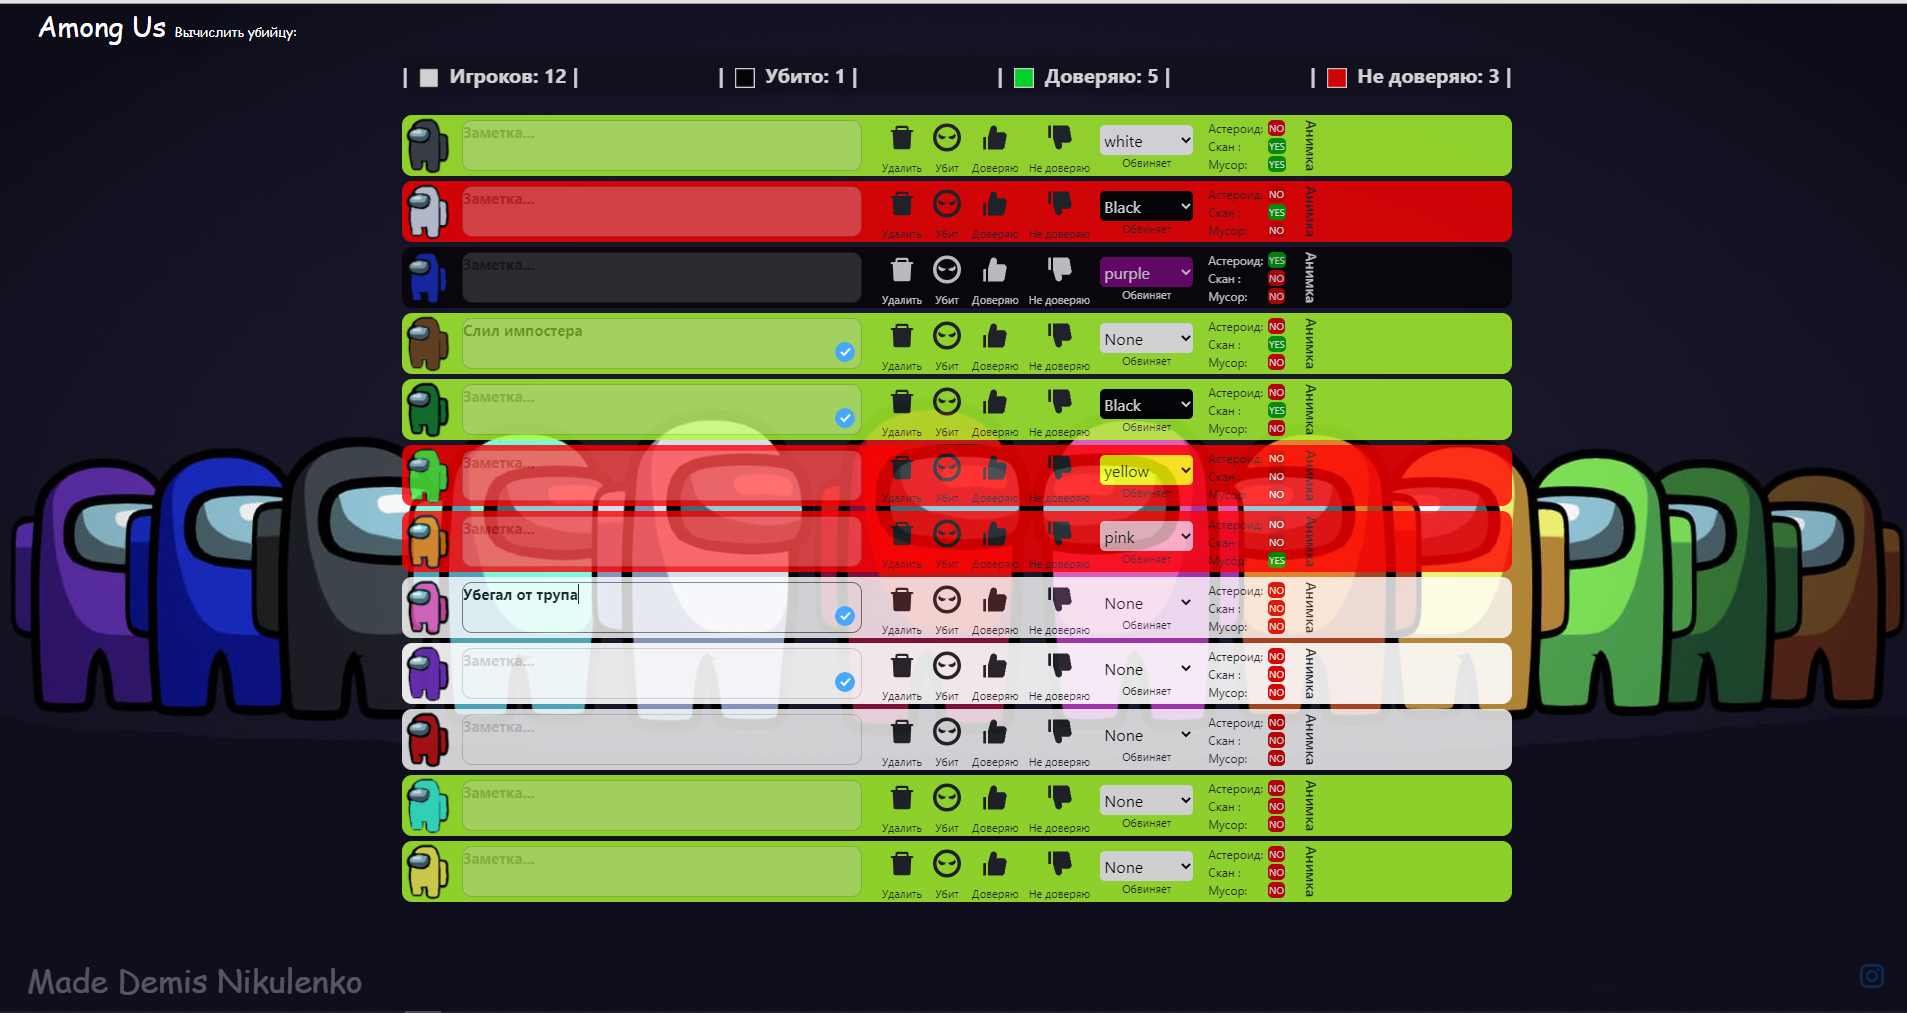
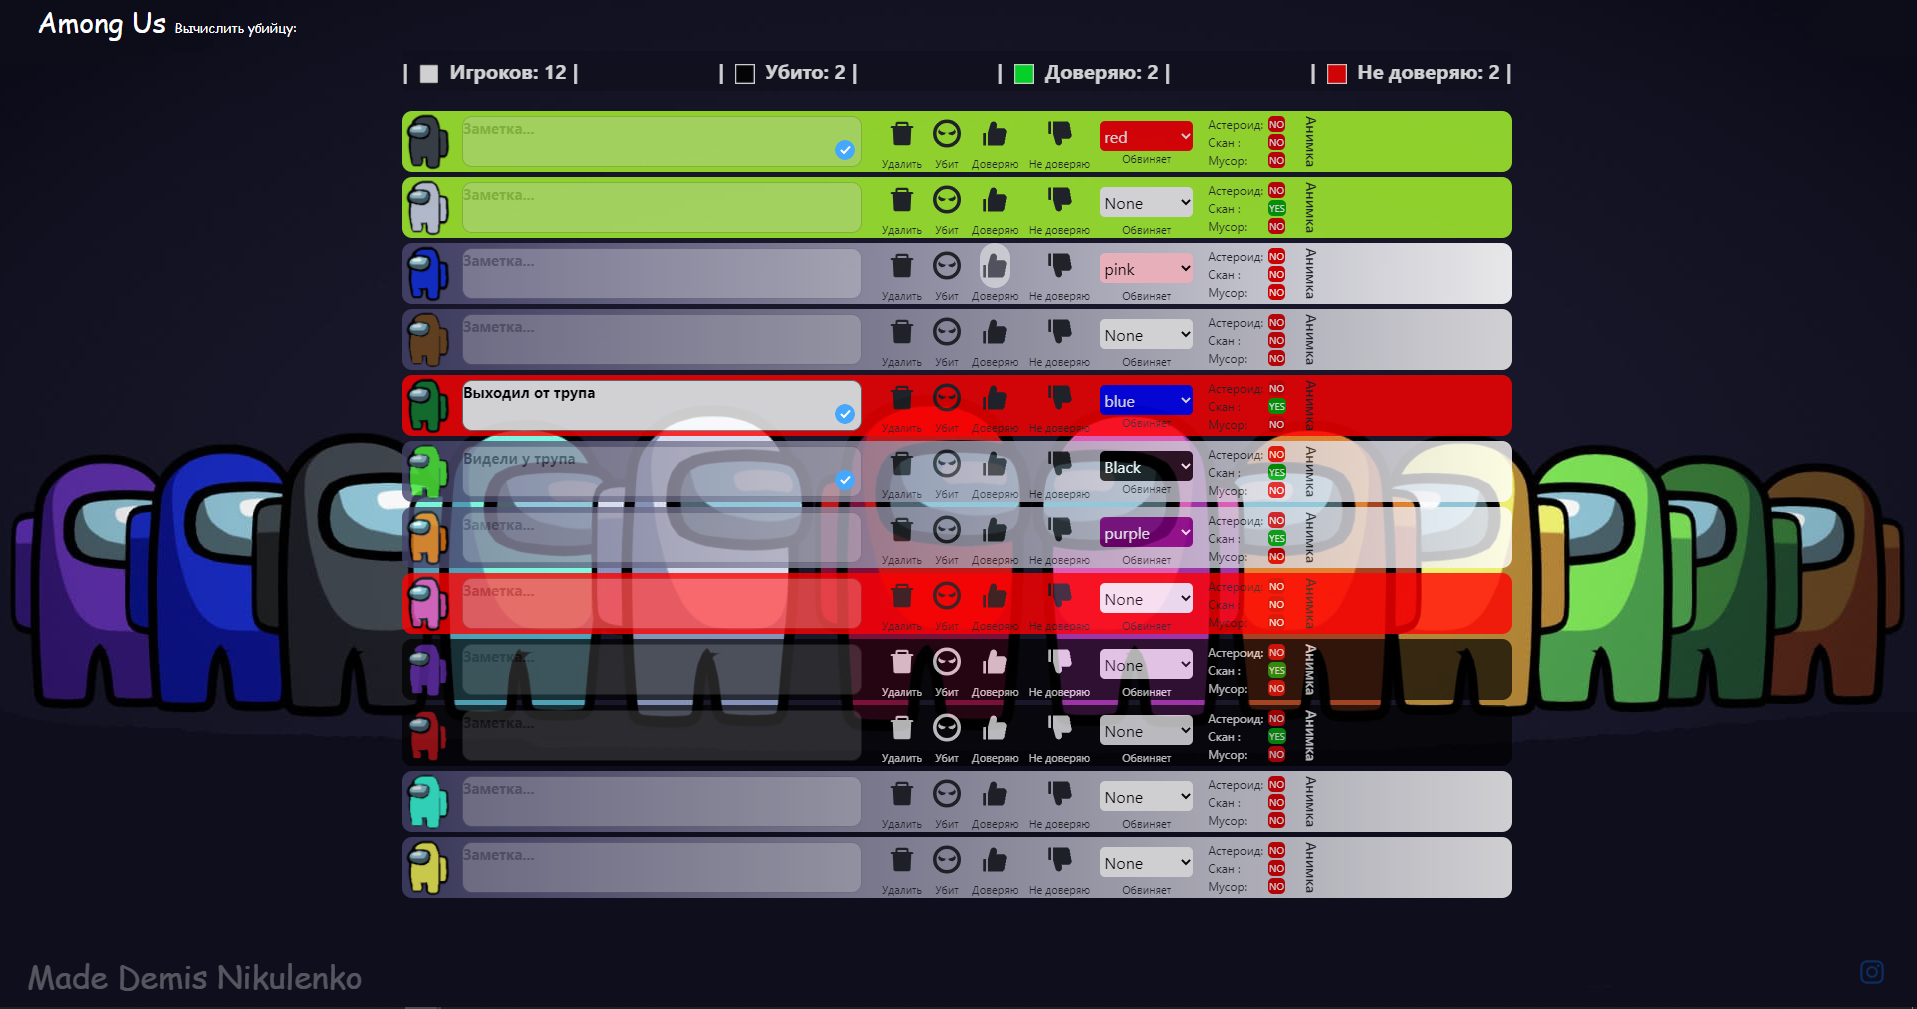
fixed css

diff --git a/src/components/main/main.scss b/src/components/main/main.scss
@@ -20,9 +20,10 @@
 }
 
 .item-people {
+    background: linear-gradient(to right, #444269, #fff);
     margin-bottom: 5px;
     display: flex;
-    background: white;
+    // background: white;
     opacity: 0.8;
     border-radius: 10px;
     &:hover{
@@ -62,10 +63,18 @@
     }
 
     .action-player {
+        
         align-items: center;
         margin-left: 10px;
         display: flex;
         flex-direction: column;
+
+        &:nth-child(7){
+            display: flex;
+            flex-direction: column;
+            justify-content: space-between;
+
+        }
 
         & span{
             font-size: 11px;

diff --git a/src/components/main/main.js b/src/components/main/main.js
@@ -8,7 +8,9 @@ const Main = ({peoples, btns, onToogleAction, counterStats}) => {
         <div className="main">
             <div className="container-peoples">
                 <StatsCounter counterStats={counterStats} />
+                <div className="items-players">
                <ItemsPeople peoples={peoples} btns={btns} onToogleAction={onToogleAction}  /> 
+               </div>
             </div>
         </div>
     );
